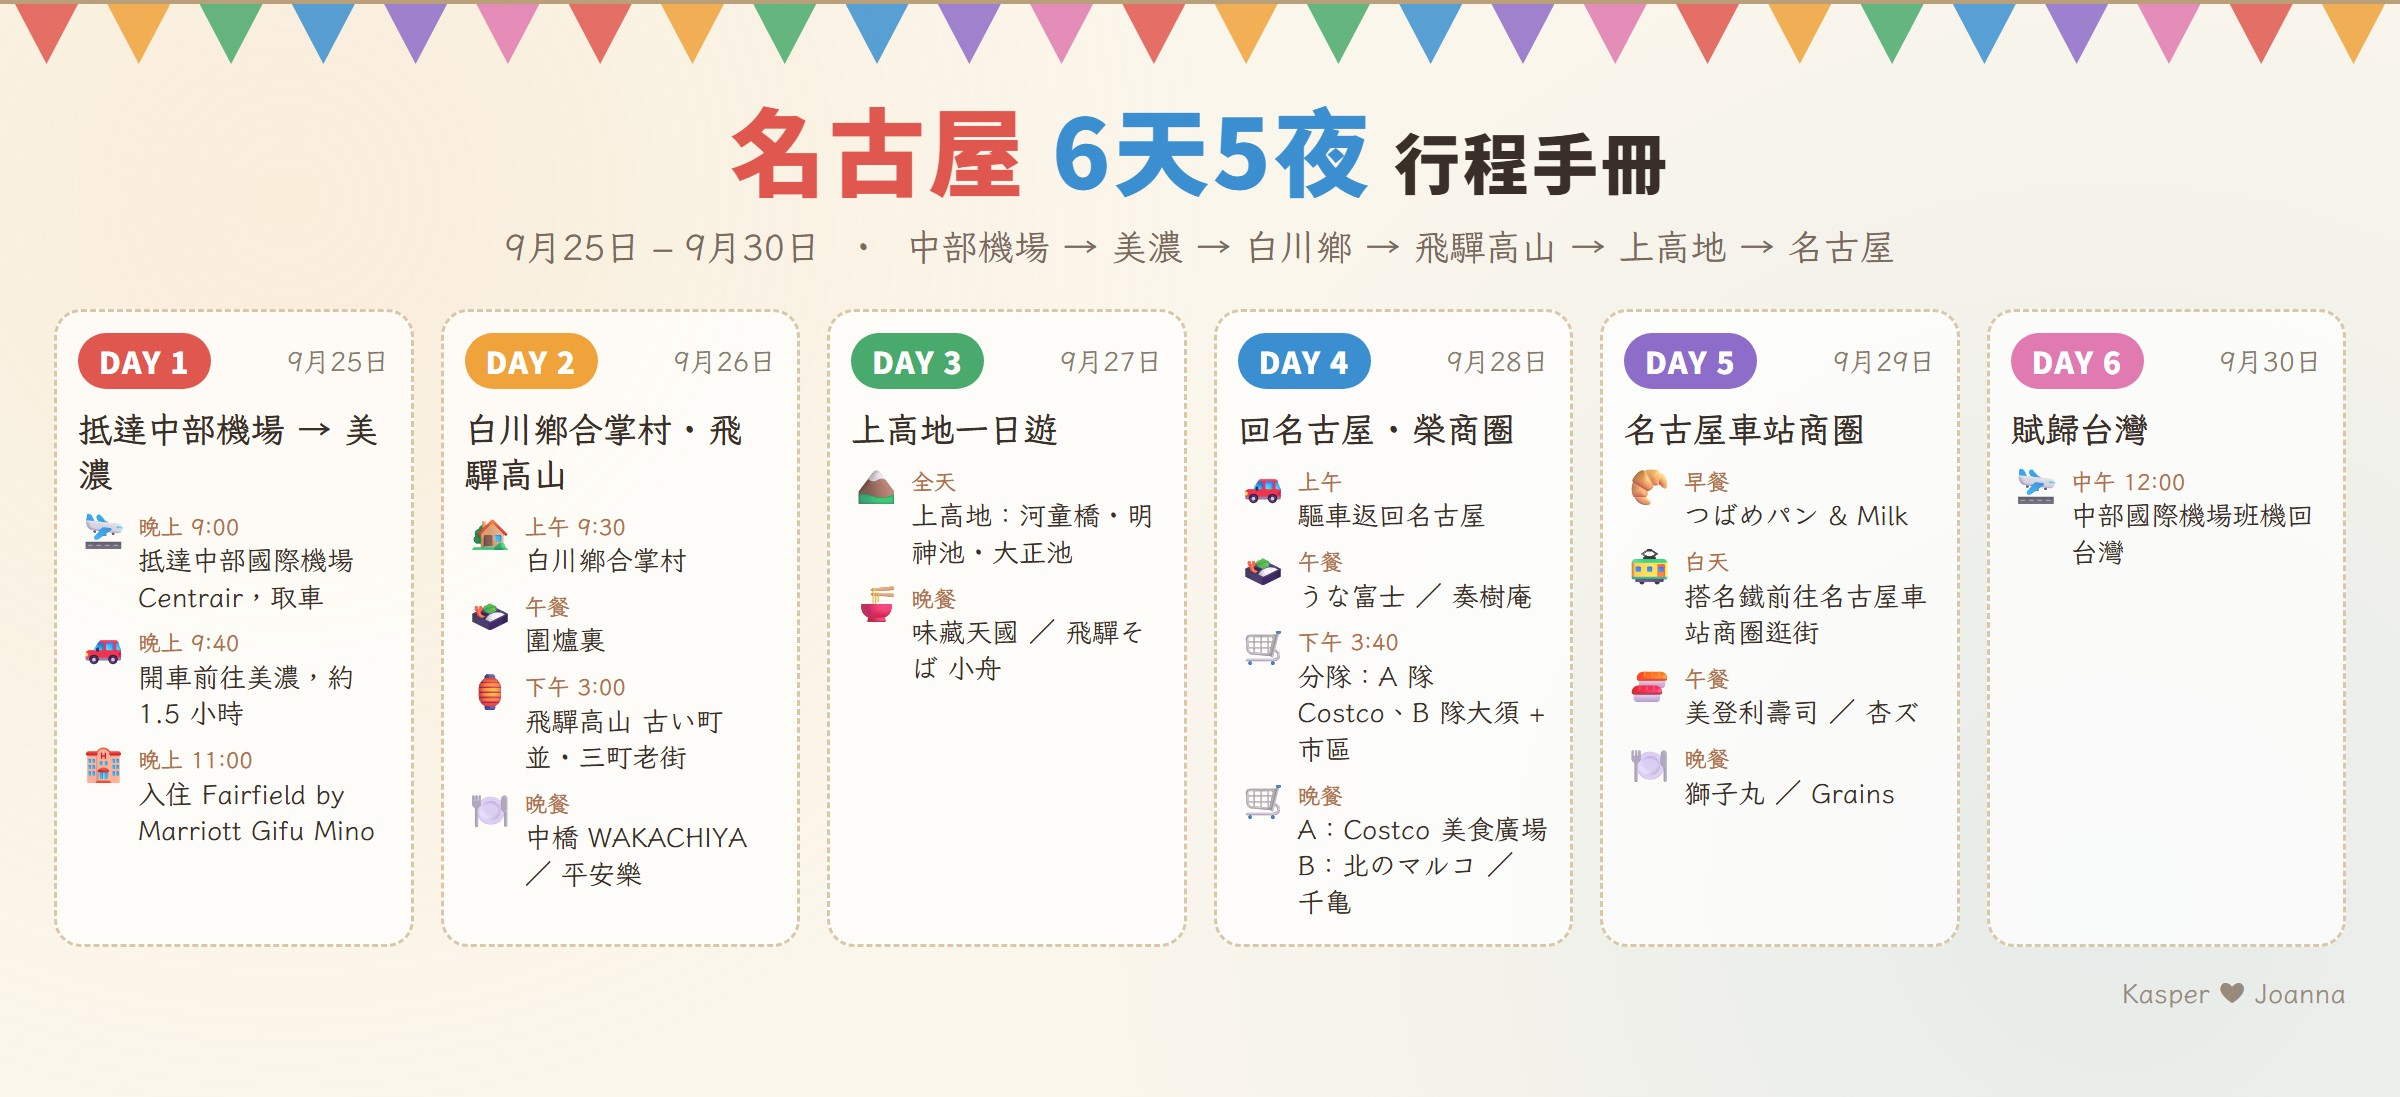
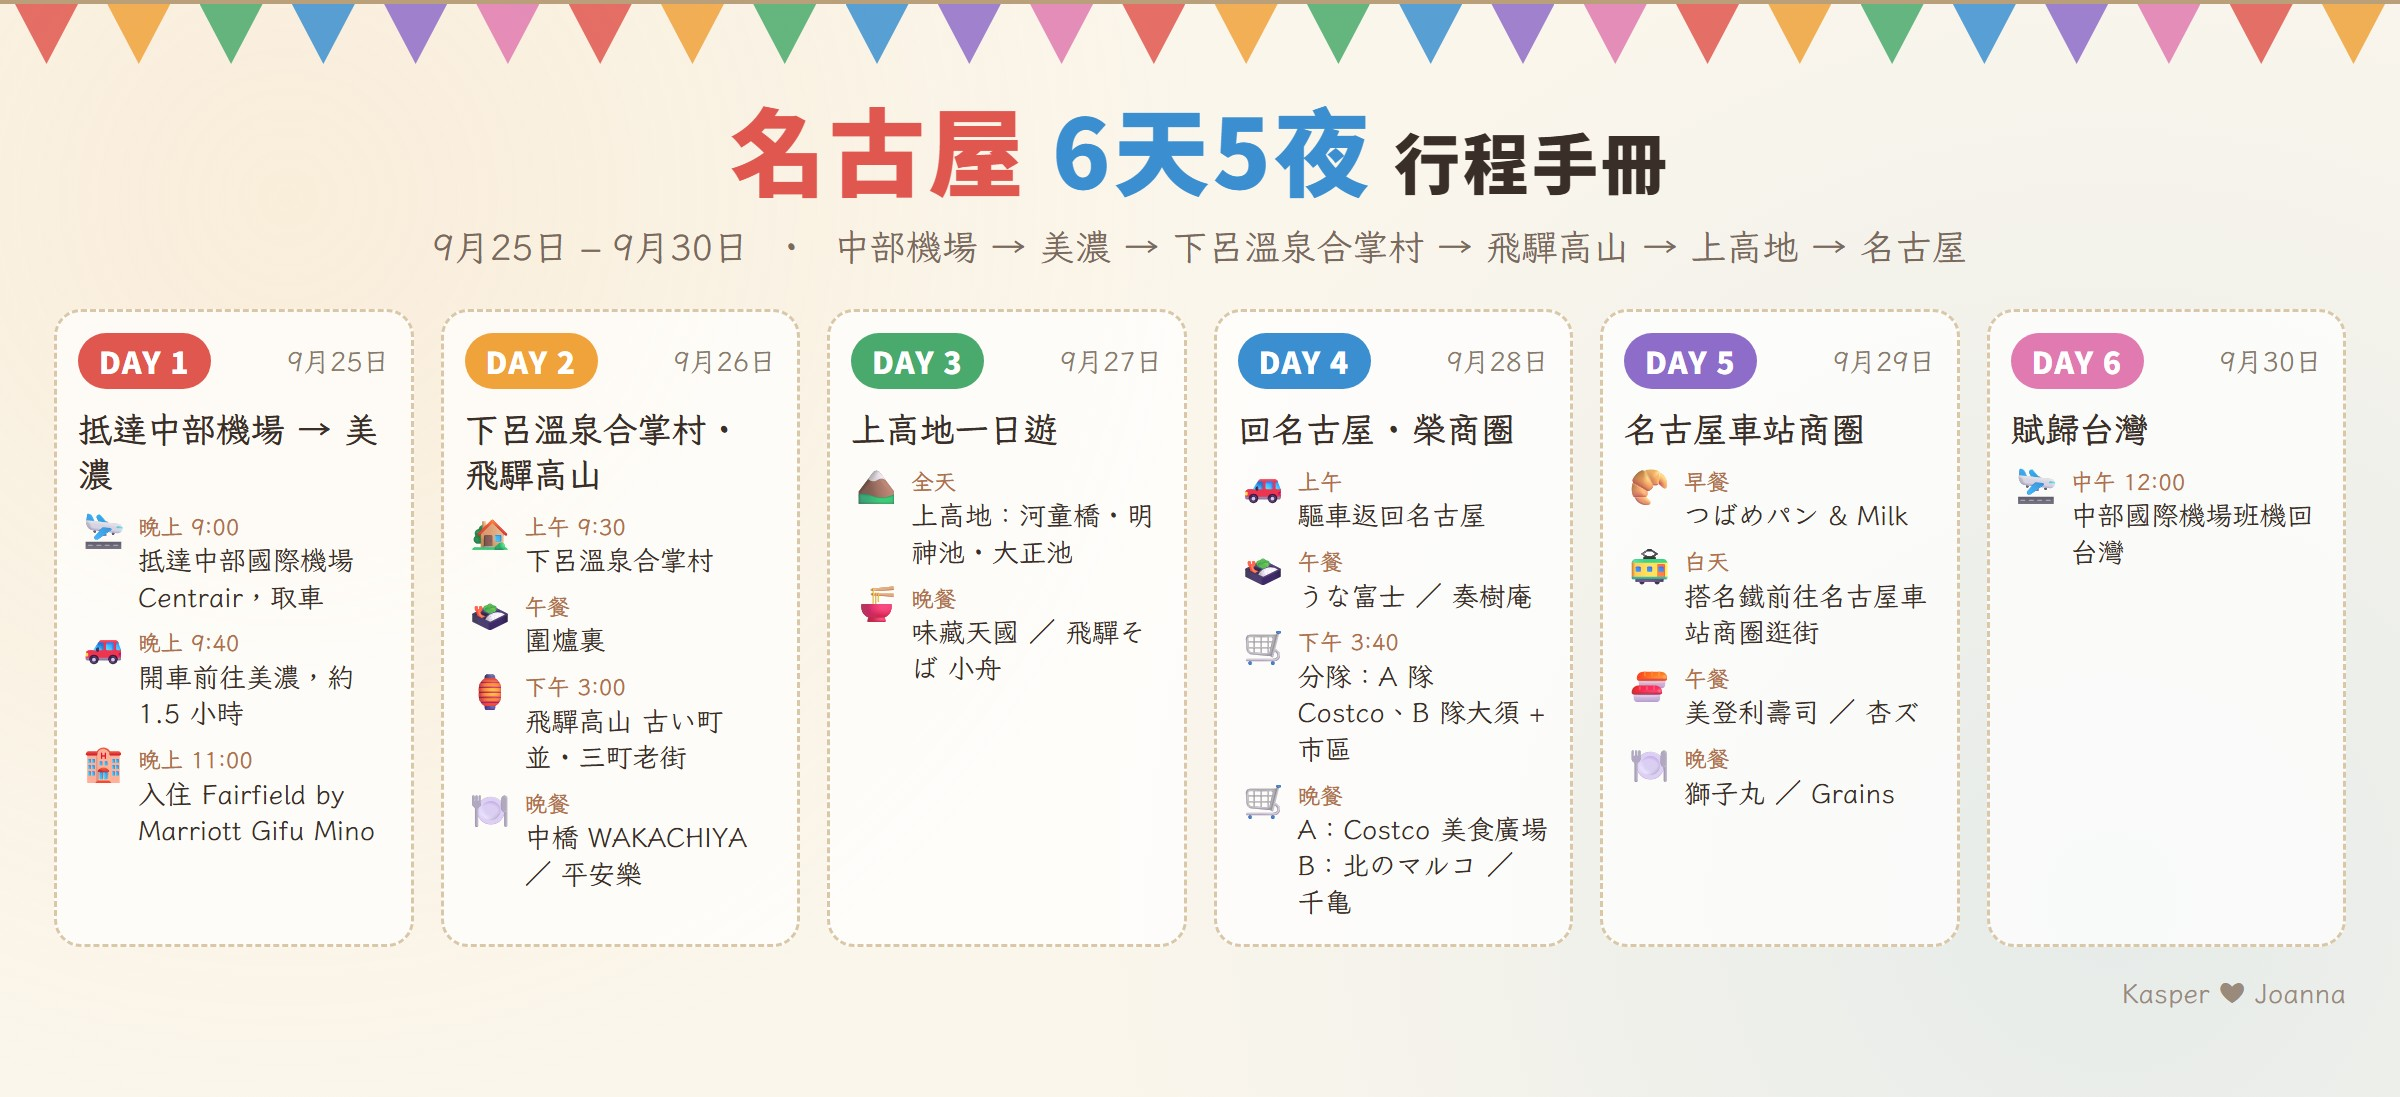
Nagoya: Day 2 was 下呂溫泉合掌村, not 白川鄉
Day 2 title, itinerary, route and itinerary image updated; banner is now a CC0 photo of 下呂溫泉合掌村 (Shirakawa-go banner moved out).

Changed region(s): [[0.1875, 0.217, 0.8125, 0.2479], [0.1875, 0.3719, 0.3125, 0.4649], [0.2188, 0.4959, 0.3125, 0.5269]]

diff --git a/trips.js b/trips.js
@@ -731,11 +731,11 @@ window.TRIPS = [
     "folder": "Pictures/Nagoya",
     "country": "日本",
     "dates": "9月25日 – 9月30日",
-    "route": "中部機場 → 美濃 → 白川鄉 → 飛驒高山 → 上高地 → 名古屋",
-    "cover": "Pictures/Nagoya/cover-shirakawa-go.jpg",
+    "route": "中部機場 → 美濃 → 下呂溫泉合掌村 → 飛驒高山 → 上高地 → 名古屋",
+    "cover": "Pictures/Nagoya/cover-gero-gassho-mura.jpg",
     "coverCredit": {
-      "text": "白川鄉 · Alexkom000 · CC BY 4.0",
-      "href": "https://commons.wikimedia.org/wiki/File:2024-10-26_Shirakawa-go_02.jpg"
+      "text": "下呂溫泉合掌村 · 先従隗始 · CC0",
+      "href": "https://commons.wikimedia.org/wiki/File:Gero_Onsen_Gassho-mura_20230715_10.jpg"
     },
     "captions": {
       "Pictures/Nagoya/Schedule/nagoya-itinerary.jpg": "行程總覽",
@@ -763,12 +763,12 @@ window.TRIPS = [
       },
       {
         "date": "9月26日",
-        "title": "🏡 白川鄉合掌村 · 飛驒高山",
+        "title": "🏡 下呂溫泉合掌村 · 飛驒高山",
         "cover": "Pictures/Nagoya/Day2/LINE_ALBUM_926名古屋day2_261025_25.jpg",
         "timeline": [
           {
             "time": "上午 9:30",
-            "text": "白川鄉合掌村"
+            "text": "下呂溫泉合掌村"
           },
           {
             "time": "午餐",

diff --git a/index.html b/index.html
@@ -10,7 +10,7 @@
   <link href="https://fonts.googleapis.com/css2?family=Fraunces:ital,opsz,wght@1,9..144,300&family=Manrope:wght@400;500;600;700;800&family=Noto+Sans+TC:wght@400;500;600;700&display=swap" rel="stylesheet" />
   <link rel="icon" type="image/png" href="favicon.png" />
   <link rel="apple-touch-icon" href="apple-touch-icon.png" />
-  <link rel="stylesheet" href="style.css?v=17" />
+  <link rel="stylesheet" href="style.css?v=18" />
 </head>
 <body>
   <a class="skip-link" href="#main">跳到主要內容</a>
@@ -58,7 +58,7 @@
     <button class="lb-btn lb-next" type="button" aria-label="下一張" data-lb="next"><svg viewBox="0 0 24 24" fill="none" stroke="currentColor" stroke-width="2" stroke-linecap="round" stroke-linejoin="round"><path d="M9 6l6 6-6 6"/></svg></button>
   </dialog>
 
-  <script src="trips.js?v=17"></script>
-  <script src="script.js?v=17"></script>
+  <script src="trips.js?v=18"></script>
+  <script src="script.js?v=18"></script>
 </body>
 </html>

diff --git a/CLAUDE.md b/CLAUDE.md
@@ -45,8 +45,8 @@ Pictures/
 - **Day pages look the same for every trip:** the itinerary list (time + where we went, no photos in it) on top, then one photo grid: the itinerary's photos first in order, then any other photos in the day folder.
 - **Day photos** use one grid (`photoGrid()` in script.js) of **square thumbnails** cropped toward the top (`object-position: 50% 30%`, keeps faces): 3 per row, 2 photos fill the row as halves, and the last row never holds a lone photo (13 → 3·3·3·2·2). Clicking opens the whole photo in the lightbox. The user compared 7 layouts (blurred fill, matte, polaroid prints, filmstrip, …) and chose this one.
 - **Schedule pages lead with an itinerary image** (one column per day, icon per stop, in the style of the user's original AI-made Okinawa card). All three images are drawn by `tools/itinerary_poster.py` from trips.js, so the Chinese text is exact; re-run it when a schedule changes. The Nagoya PDF stays below as an attachment. No ticket or booking screenshots on the site (user asked to remove them; they also show booking / frequent-flyer numbers).
-- **Day content comes from each trip's schedule** in `Pictures/<Trip>/Schedule/`: Okinawa `schedule.txt` (the user later confirmed they did **not** go to 美國村 or 青之洞窟; Day 4 morning was 萬座毛, seen in the photos), Nagoya the itinerary PDF (overview table: dates, highlights, meals), Australia the original itinerary (the user confirmed they did **not** go to 塔龍加動物園 Taronga Zoo on Day 9). Day titles and timelines in trips.js follow these files; when a schedule changes, update trips.js to match.
-- **Day covers:** a day's `cover` in trips.js is the photo of that day's main event *per the schedule* (overview card), chosen by looking at the photos — not just the first file. If the main event has no photos (Okinawa Day 2 paragliding), use the best photo of the day's other headline event. Trip `cover` (hero banner, full screen width; Okinawa and Nagoya use free-licensed Wikimedia Commons photos of the trip's signature sight — Kouri Bridge, Shirakawa-go — with `coverCredit` shown on the banner and under the home trip cards, as CC BY requires) must be a landscape photo, ideally 2560px wide (resize larger originals to 2560px JPEG, no EXIF); smaller looks blurry. Nagoya covers: D1 plane at sunset #2, D2 umbrella couple at the gassho village #25, D3 河童橋 couple #66, D4 鰻魚飯 #1, D5 sushi #1, D6 ramen #2. Current picks: Okinawa D1 暖暮拉麵 #12, D2 波上宮 #55, D3 瀨長島夕陽 #33, D4 古宇利島 #49, D5 A&W #11, Days without `cover` use the first photo in their folder.
+- **Day content comes from each trip's schedule** in `Pictures/<Trip>/Schedule/`: Okinawa `schedule.txt` (the user later confirmed they did **not** go to 美國村 or 青之洞窟; Day 4 morning was 萬座毛, seen in the photos), Nagoya the itinerary PDF (overview table: dates, highlights, meals) — but on Day 2 they went to **下呂溫泉合掌村**, not 白川鄉 (user confirmed), Australia the original itinerary (the user confirmed they did **not** go to 塔龍加動物園 Taronga Zoo on Day 9). Day titles and timelines in trips.js follow these files; when a schedule changes, update trips.js to match.
+- **Day covers:** a day's `cover` in trips.js is the photo of that day's main event *per the schedule* (overview card), chosen by looking at the photos — not just the first file. If the main event has no photos (Okinawa Day 2 paragliding), use the best photo of the day's other headline event. Trip `cover` (hero banner, full screen width; Okinawa and Nagoya use free-licensed Wikimedia Commons photos of the trip's signature sight — Kouri Bridge, 下呂溫泉合掌村 (CC0) — with `coverCredit` shown on the banner and under the home trip cards, as CC BY requires) must be a landscape photo, ideally 2560px wide (resize larger originals to 2560px JPEG, no EXIF); smaller looks blurry. Nagoya covers: D1 plane at sunset #2, D2 umbrella couple at the gassho village #25, D3 河童橋 couple #66, D4 鰻魚飯 #1, D5 sushi #1, D6 ramen #2. Current picks: Okinawa D1 暖暮拉麵 #12, D2 波上宮 #55, D3 瀨長島夕陽 #33, D4 古宇利島 #49, D5 A&W #11, Days without `cover` use the first photo in their folder.
 - **Lightbox:** clicking any `figure img` or schedule image in `<main>` opens `<dialog class="lightbox">` with prev/next.
 
 ## Previewing locally
